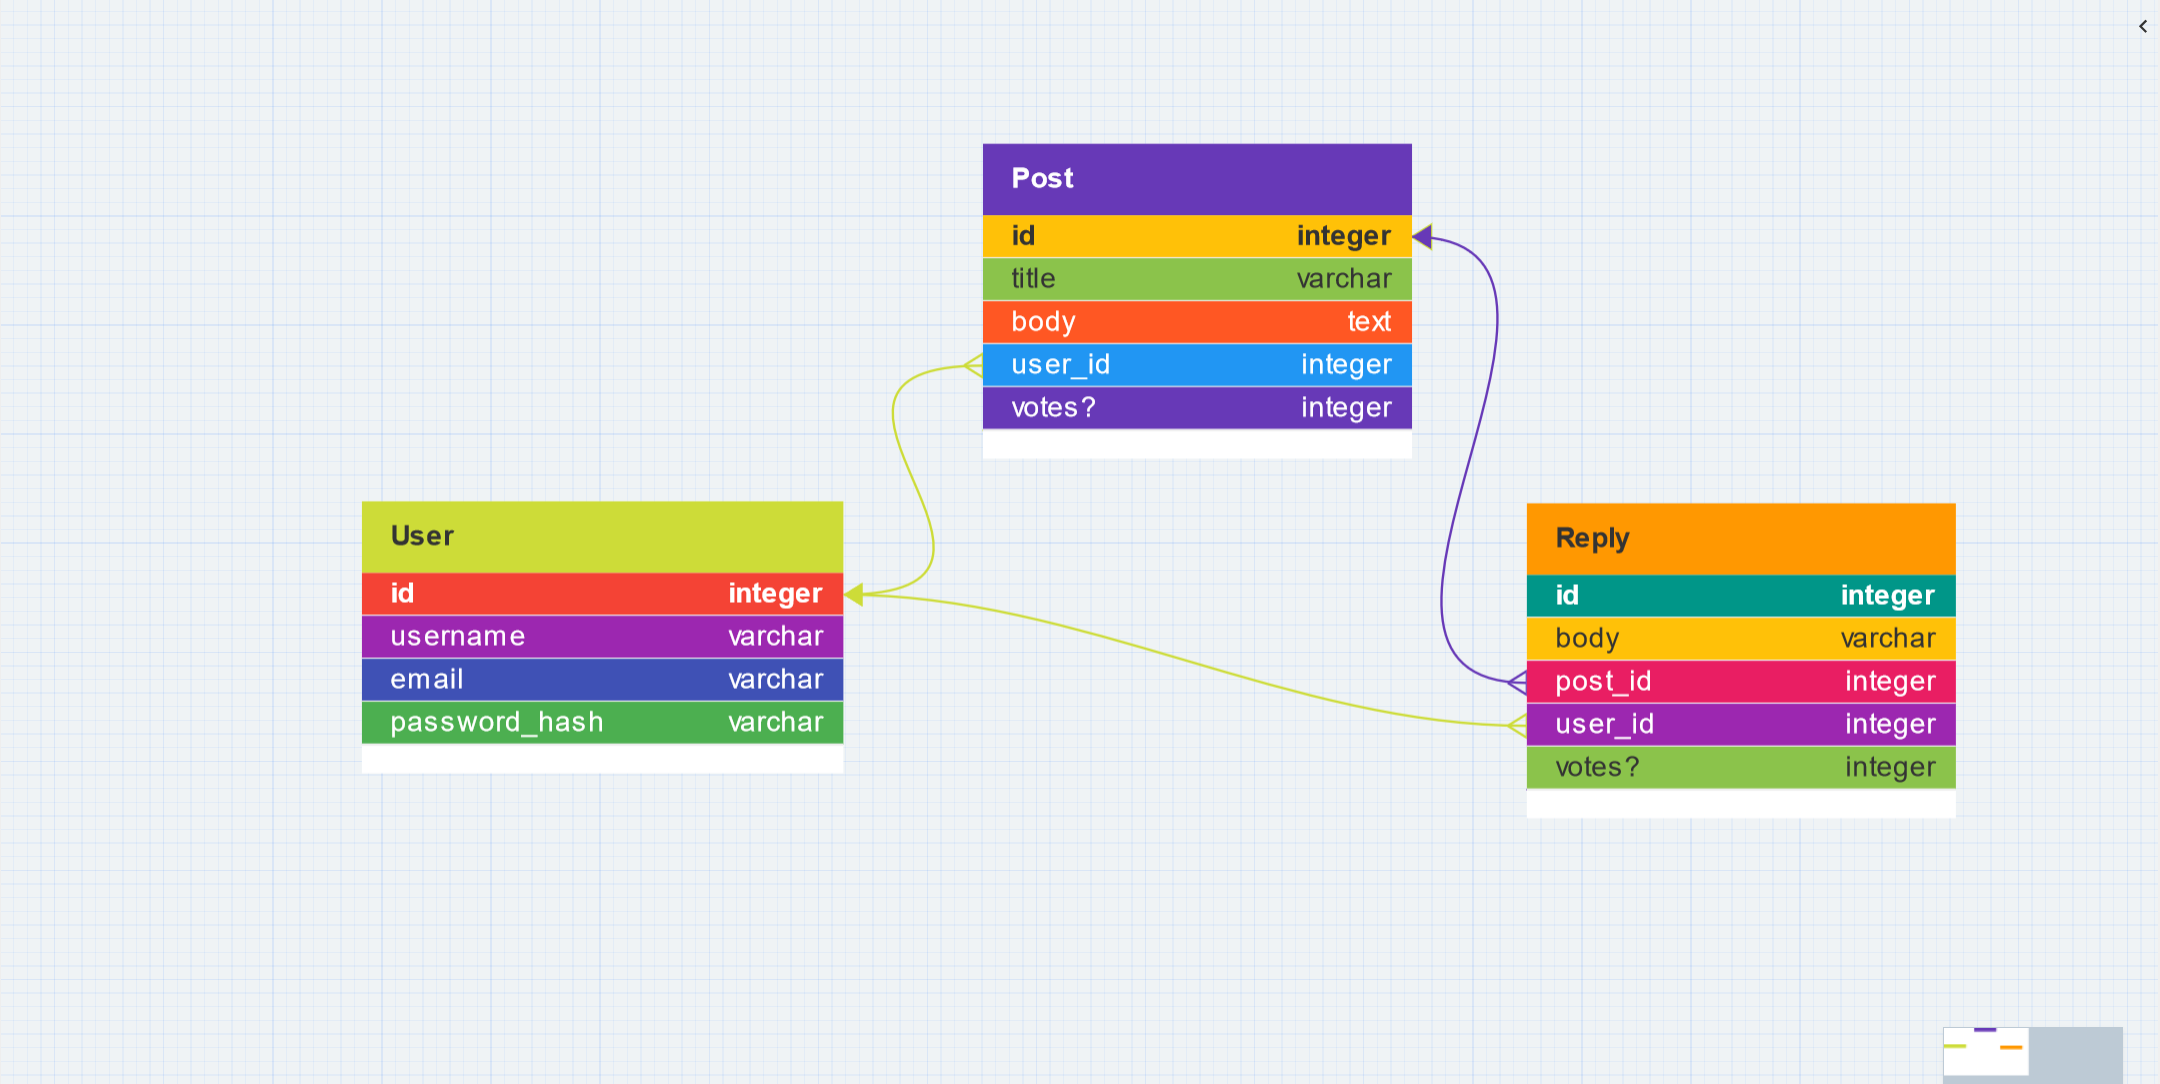
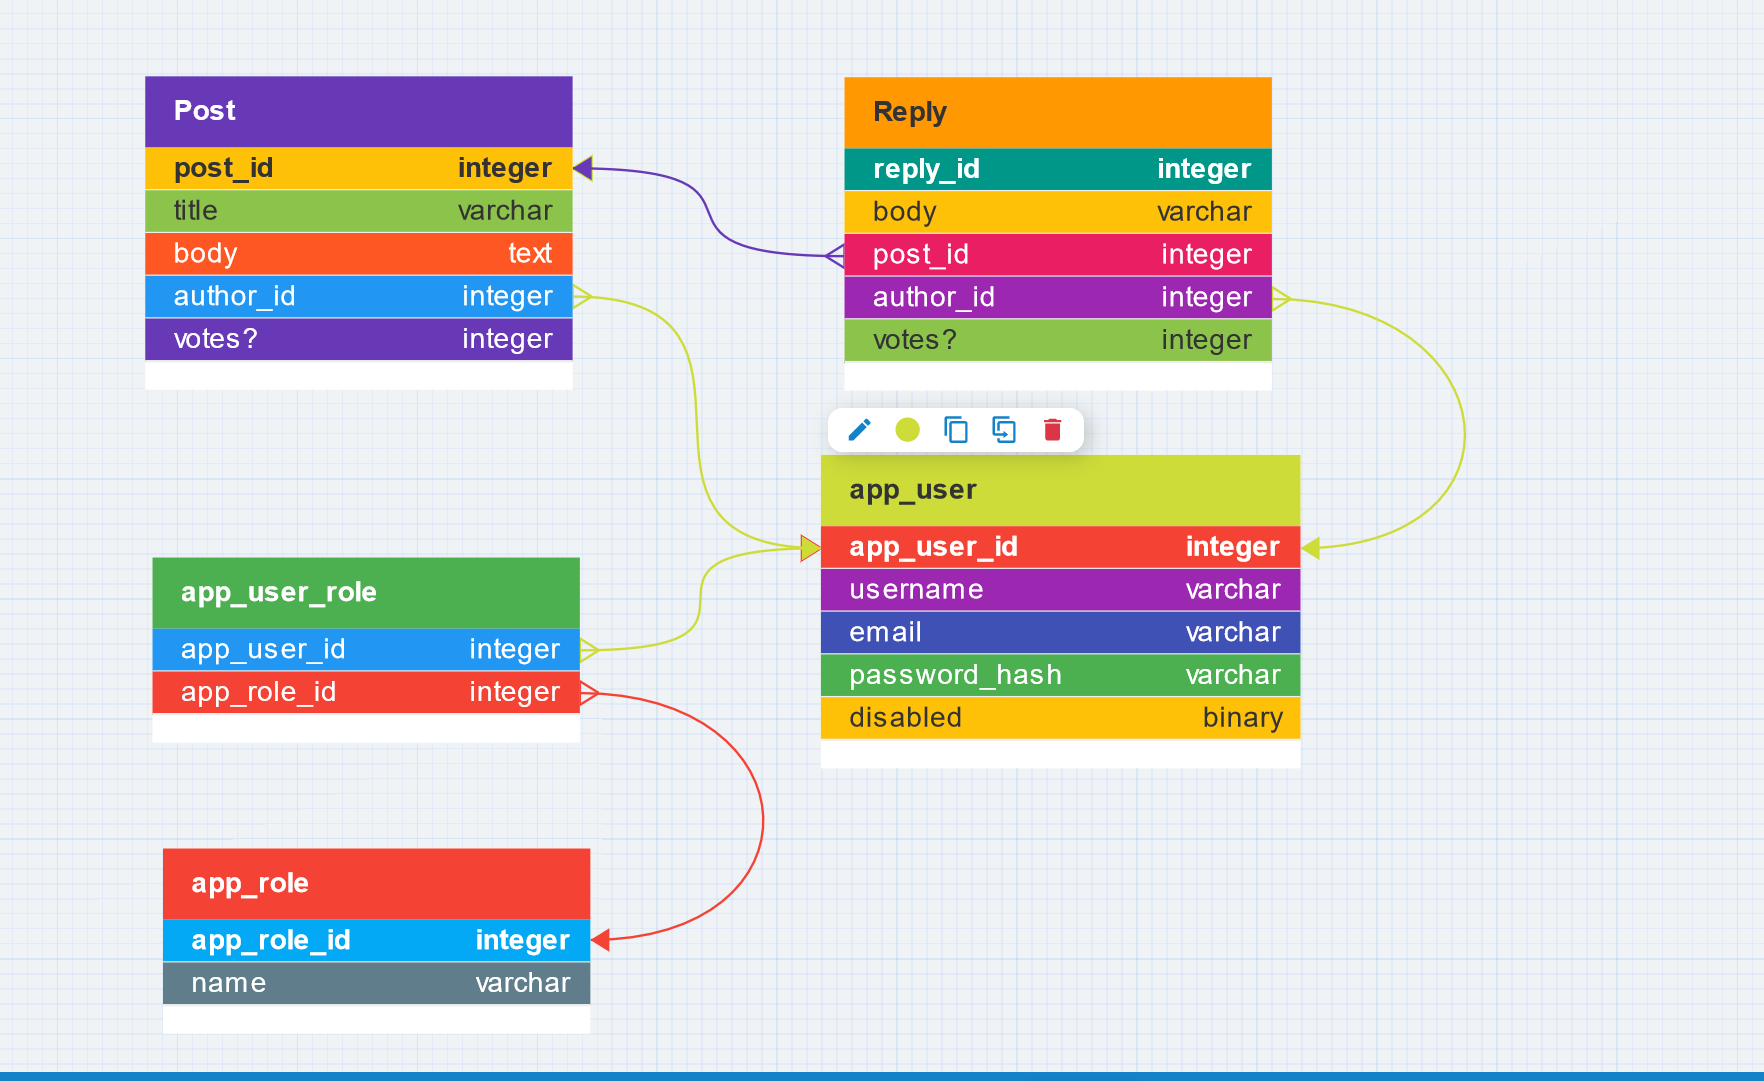
added two new tables to schema-diagram, reworked component-diagram

diff --git a/planning/frontend/component-diagram.html b/planning/frontend/component-diagram.html
@@ -1,0 +1,12 @@
+<!--[if IE]><meta http-equiv="X-UA-Compatible" content="IE=5,IE=9" ><![endif]-->
+<!DOCTYPE html>
+<html>
+<head>
+<title>Micro-Overflow.drawio.html</title>
+<meta charset="utf-8"/>
+</head>
+<body>
+<div class="mxgraph" style="max-width:100%;border:1px solid transparent;" data-mxgraph="{&quot;highlight&quot;:&quot;#0000ff&quot;,&quot;nav&quot;:true,&quot;resize&quot;:true,&quot;xml&quot;:&quot;&lt;mxfile host=\&quot;app.diagrams.net\&quot; modified=\&quot;2023-08-10T15:31:23.495Z\&quot; agent=\&quot;Mozilla/5.0 (Windows NT 10.0; Win64; x64; rv:109.0) Gecko/20100101 Firefox/116.0\&quot; etag=\&quot;tdofGplOQPMD5YdsrqYK\&quot; version=\&quot;21.6.8\&quot; type=\&quot;device\&quot;&gt;&lt;diagram name=\&quot;Page-1\&quot; id=\&quot;EvAYKShiM7-JEfwNViZ9\&quot;&gt;&lt;mxGraphModel dx=\&quot;1302\&quot; dy=\&quot;653\&quot; grid=\&quot;1\&quot; gridSize=\&quot;10\&quot; guides=\&quot;1\&quot; tooltips=\&quot;1\&quot; connect=\&quot;1\&quot; arrows=\&quot;1\&quot; fold=\&quot;1\&quot; page=\&quot;1\&quot; pageScale=\&quot;1\&quot; pageWidth=\&quot;850\&quot; pageHeight=\&quot;1100\&quot; math=\&quot;0\&quot; shadow=\&quot;0\&quot;&gt;&lt;root&gt;&lt;mxCell id=\&quot;0\&quot;/&gt;&lt;mxCell id=\&quot;1\&quot; parent=\&quot;0\&quot;/&gt;&lt;mxCell id=\&quot;05Vqzt7gNqmySBmQpRjv-1\&quot; value=\&quot;App.js\&quot; style=\&quot;rounded=1;whiteSpace=wrap;html=1;\&quot; vertex=\&quot;1\&quot; parent=\&quot;1\&quot;&gt;&lt;mxGeometry x=\&quot;400\&quot; width=\&quot;120\&quot; height=\&quot;60\&quot; as=\&quot;geometry\&quot;/&gt;&lt;/mxCell&gt;&lt;mxCell id=\&quot;05Vqzt7gNqmySBmQpRjv-2\&quot; value=\&quot;NavBar\&quot; style=\&quot;rounded=1;whiteSpace=wrap;html=1;\&quot; vertex=\&quot;1\&quot; parent=\&quot;1\&quot;&gt;&lt;mxGeometry x=\&quot;320\&quot; y=\&quot;90\&quot; width=\&quot;120\&quot; height=\&quot;60\&quot; as=\&quot;geometry\&quot;/&gt;&lt;/mxCell&gt;&lt;mxCell id=\&quot;05Vqzt7gNqmySBmQpRjv-3\&quot; value=\&quot;Login\&quot; style=\&quot;rounded=1;whiteSpace=wrap;html=1;\&quot; vertex=\&quot;1\&quot; parent=\&quot;1\&quot;&gt;&lt;mxGeometry x=\&quot;590\&quot; y=\&quot;90\&quot; width=\&quot;120\&quot; height=\&quot;60\&quot; as=\&quot;geometry\&quot;/&gt;&lt;/mxCell&gt;&lt;mxCell id=\&quot;05Vqzt7gNqmySBmQpRjv-4\&quot; value=\&quot;PostList\&quot; style=\&quot;rounded=1;whiteSpace=wrap;html=1;\&quot; vertex=\&quot;1\&quot; parent=\&quot;1\&quot;&gt;&lt;mxGeometry x=\&quot;180\&quot; y=\&quot;90\&quot; width=\&quot;120\&quot; height=\&quot;60\&quot; as=\&quot;geometry\&quot;/&gt;&lt;/mxCell&gt;&lt;mxCell id=\&quot;05Vqzt7gNqmySBmQpRjv-5\&quot; value=\&quot;Landing\&quot; style=\&quot;rounded=1;whiteSpace=wrap;html=1;\&quot; vertex=\&quot;1\&quot; parent=\&quot;1\&quot;&gt;&lt;mxGeometry x=\&quot;450\&quot; y=\&quot;90\&quot; width=\&quot;120\&quot; height=\&quot;60\&quot; as=\&quot;geometry\&quot;/&gt;&lt;/mxCell&gt;&lt;mxCell id=\&quot;05Vqzt7gNqmySBmQpRjv-6\&quot; value=\&quot;PostForm\&quot; style=\&quot;rounded=1;whiteSpace=wrap;html=1;\&quot; vertex=\&quot;1\&quot; parent=\&quot;1\&quot;&gt;&lt;mxGeometry x=\&quot;300\&quot; y=\&quot;180\&quot; width=\&quot;120\&quot; height=\&quot;60\&quot; as=\&quot;geometry\&quot;/&gt;&lt;/mxCell&gt;&lt;mxCell id=\&quot;05Vqzt7gNqmySBmQpRjv-7\&quot; value=\&quot;Post/ PostRow\&quot; style=\&quot;rounded=1;whiteSpace=wrap;html=1;\&quot; vertex=\&quot;1\&quot; parent=\&quot;1\&quot;&gt;&lt;mxGeometry x=\&quot;130\&quot; y=\&quot;270\&quot; width=\&quot;120\&quot; height=\&quot;60\&quot; as=\&quot;geometry\&quot;/&gt;&lt;/mxCell&gt;&lt;mxCell id=\&quot;05Vqzt7gNqmySBmQpRjv-8\&quot; value=\&quot;\&quot; style=\&quot;endArrow=classic;html=1;rounded=0;exitX=0.5;exitY=1;exitDx=0;exitDy=0;entryX=0.583;entryY=0;entryDx=0;entryDy=0;entryPerimeter=0;\&quot; edge=\&quot;1\&quot; parent=\&quot;1\&quot; source=\&quot;05Vqzt7gNqmySBmQpRjv-4\&quot; target=\&quot;05Vqzt7gNqmySBmQpRjv-15\&quot;&gt;&lt;mxGeometry width=\&quot;50\&quot; height=\&quot;50\&quot; relative=\&quot;1\&quot; as=\&quot;geometry\&quot;&gt;&lt;mxPoint x=\&quot;150\&quot; y=\&quot;270\&quot; as=\&quot;sourcePoint\&quot;/&gt;&lt;mxPoint x=\&quot;200\&quot; y=\&quot;310\&quot; as=\&quot;targetPoint\&quot;/&gt;&lt;/mxGeometry&gt;&lt;/mxCell&gt;&lt;mxCell id=\&quot;05Vqzt7gNqmySBmQpRjv-9\&quot; value=\&quot;\&quot; style=\&quot;endArrow=classic;html=1;rounded=0;exitX=0.594;exitY=1.006;exitDx=0;exitDy=0;exitPerimeter=0;entryX=0.5;entryY=0;entryDx=0;entryDy=0;\&quot; edge=\&quot;1\&quot; parent=\&quot;1\&quot; source=\&quot;05Vqzt7gNqmySBmQpRjv-4\&quot; target=\&quot;05Vqzt7gNqmySBmQpRjv-6\&quot;&gt;&lt;mxGeometry width=\&quot;50\&quot; height=\&quot;50\&quot; relative=\&quot;1\&quot; as=\&quot;geometry\&quot;&gt;&lt;mxPoint x=\&quot;160\&quot; y=\&quot;260\&quot; as=\&quot;sourcePoint\&quot;/&gt;&lt;mxPoint x=\&quot;240\&quot; y=\&quot;330\&quot; as=\&quot;targetPoint\&quot;/&gt;&lt;/mxGeometry&gt;&lt;/mxCell&gt;&lt;mxCell id=\&quot;05Vqzt7gNqmySBmQpRjv-10\&quot; value=\&quot;ReplyForm\&quot; style=\&quot;rounded=1;whiteSpace=wrap;html=1;\&quot; vertex=\&quot;1\&quot; parent=\&quot;1\&quot;&gt;&lt;mxGeometry x=\&quot;260\&quot; y=\&quot;350\&quot; width=\&quot;120\&quot; height=\&quot;60\&quot; as=\&quot;geometry\&quot;/&gt;&lt;/mxCell&gt;&lt;mxCell id=\&quot;05Vqzt7gNqmySBmQpRjv-12\&quot; value=\&quot;ReplyList\&quot; style=\&quot;rounded=1;whiteSpace=wrap;html=1;\&quot; vertex=\&quot;1\&quot; parent=\&quot;1\&quot;&gt;&lt;mxGeometry x=\&quot;120\&quot; y=\&quot;350\&quot; width=\&quot;120\&quot; height=\&quot;60\&quot; as=\&quot;geometry\&quot;/&gt;&lt;/mxCell&gt;&lt;mxCell id=\&quot;05Vqzt7gNqmySBmQpRjv-15\&quot; value=\&quot;&amp;lt;div&amp;gt;PostTable&amp;lt;/div&amp;gt;\&quot; style=\&quot;rounded=1;whiteSpace=wrap;html=1;\&quot; vertex=\&quot;1\&quot; parent=\&quot;1\&quot;&gt;&lt;mxGeometry x=\&quot;160\&quot; y=\&quot;180\&quot; width=\&quot;120\&quot; height=\&quot;60\&quot; as=\&quot;geometry\&quot;/&gt;&lt;/mxCell&gt;&lt;mxCell id=\&quot;05Vqzt7gNqmySBmQpRjv-16\&quot; value=\&quot;\&quot; style=\&quot;endArrow=classic;html=1;rounded=0;entryX=0.583;entryY=0;entryDx=0;entryDy=0;entryPerimeter=0;\&quot; edge=\&quot;1\&quot; parent=\&quot;1\&quot; target=\&quot;05Vqzt7gNqmySBmQpRjv-7\&quot;&gt;&lt;mxGeometry width=\&quot;50\&quot; height=\&quot;50\&quot; relative=\&quot;1\&quot; as=\&quot;geometry\&quot;&gt;&lt;mxPoint x=\&quot;210\&quot; y=\&quot;240\&quot; as=\&quot;sourcePoint\&quot;/&gt;&lt;mxPoint x=\&quot;200\&quot; y=\&quot;290\&quot; as=\&quot;targetPoint\&quot;/&gt;&lt;/mxGeometry&gt;&lt;/mxCell&gt;&lt;mxCell id=\&quot;05Vqzt7gNqmySBmQpRjv-17\&quot; value=\&quot;\&quot; style=\&quot;endArrow=classic;html=1;rounded=0;\&quot; edge=\&quot;1\&quot; parent=\&quot;1\&quot; target=\&quot;05Vqzt7gNqmySBmQpRjv-10\&quot;&gt;&lt;mxGeometry width=\&quot;50\&quot; height=\&quot;50\&quot; relative=\&quot;1\&quot; as=\&quot;geometry\&quot;&gt;&lt;mxPoint x=\&quot;220\&quot; y=\&quot;330\&quot; as=\&quot;sourcePoint\&quot;/&gt;&lt;mxPoint x=\&quot;260\&quot; y=\&quot;370\&quot; as=\&quot;targetPoint\&quot;/&gt;&lt;/mxGeometry&gt;&lt;/mxCell&gt;&lt;mxCell id=\&quot;05Vqzt7gNqmySBmQpRjv-18\&quot; value=\&quot;\&quot; style=\&quot;endArrow=classic;html=1;rounded=0;\&quot; edge=\&quot;1\&quot; parent=\&quot;1\&quot; target=\&quot;05Vqzt7gNqmySBmQpRjv-12\&quot;&gt;&lt;mxGeometry width=\&quot;50\&quot; height=\&quot;50\&quot; relative=\&quot;1\&quot; as=\&quot;geometry\&quot;&gt;&lt;mxPoint x=\&quot;169.58000000000004\&quot; y=\&quot;330\&quot; as=\&quot;sourcePoint\&quot;/&gt;&lt;mxPoint x=\&quot;170\&quot; y=\&quot;360\&quot; as=\&quot;targetPoint\&quot;/&gt;&lt;/mxGeometry&gt;&lt;/mxCell&gt;&lt;mxCell id=\&quot;05Vqzt7gNqmySBmQpRjv-19\&quot; value=\&quot;ReplyTable\&quot; style=\&quot;rounded=1;whiteSpace=wrap;html=1;\&quot; vertex=\&quot;1\&quot; parent=\&quot;1\&quot;&gt;&lt;mxGeometry x=\&quot;120\&quot; y=\&quot;430\&quot; width=\&quot;120\&quot; height=\&quot;60\&quot; as=\&quot;geometry\&quot;/&gt;&lt;/mxCell&gt;&lt;mxCell id=\&quot;05Vqzt7gNqmySBmQpRjv-20\&quot; value=\&quot;Reply/ ReplyRow\&quot; style=\&quot;rounded=1;whiteSpace=wrap;html=1;\&quot; vertex=\&quot;1\&quot; parent=\&quot;1\&quot;&gt;&lt;mxGeometry x=\&quot;120\&quot; y=\&quot;520\&quot; width=\&quot;120\&quot; height=\&quot;60\&quot; as=\&quot;geometry\&quot;/&gt;&lt;/mxCell&gt;&lt;mxCell id=\&quot;05Vqzt7gNqmySBmQpRjv-21\&quot; value=\&quot;\&quot; style=\&quot;endArrow=classic;html=1;rounded=0;\&quot; edge=\&quot;1\&quot; parent=\&quot;1\&quot; target=\&quot;05Vqzt7gNqmySBmQpRjv-19\&quot;&gt;&lt;mxGeometry width=\&quot;50\&quot; height=\&quot;50\&quot; relative=\&quot;1\&quot; as=\&quot;geometry\&quot;&gt;&lt;mxPoint x=\&quot;179.58000000000004\&quot; y=\&quot;400\&quot; as=\&quot;sourcePoint\&quot;/&gt;&lt;mxPoint x=\&quot;180\&quot; y=\&quot;440\&quot; as=\&quot;targetPoint\&quot;/&gt;&lt;/mxGeometry&gt;&lt;/mxCell&gt;&lt;mxCell id=\&quot;05Vqzt7gNqmySBmQpRjv-22\&quot; value=\&quot;\&quot; style=\&quot;endArrow=classic;html=1;rounded=0;\&quot; edge=\&quot;1\&quot; parent=\&quot;1\&quot; target=\&quot;05Vqzt7gNqmySBmQpRjv-20\&quot;&gt;&lt;mxGeometry width=\&quot;50\&quot; height=\&quot;50\&quot; relative=\&quot;1\&quot; as=\&quot;geometry\&quot;&gt;&lt;mxPoint x=\&quot;179.58000000000004\&quot; y=\&quot;480\&quot; as=\&quot;sourcePoint\&quot;/&gt;&lt;mxPoint x=\&quot;179.58000000000004\&quot; y=\&quot;530\&quot; as=\&quot;targetPoint\&quot;/&gt;&lt;/mxGeometry&gt;&lt;/mxCell&gt;&lt;mxCell id=\&quot;05Vqzt7gNqmySBmQpRjv-23\&quot; value=\&quot;\&quot; style=\&quot;endArrow=classic;html=1;rounded=0;entryX=0.838;entryY=-0.008;entryDx=0;entryDy=0;entryPerimeter=0;\&quot; edge=\&quot;1\&quot; parent=\&quot;1\&quot; source=\&quot;05Vqzt7gNqmySBmQpRjv-1\&quot; target=\&quot;05Vqzt7gNqmySBmQpRjv-4\&quot;&gt;&lt;mxGeometry width=\&quot;50\&quot; height=\&quot;50\&quot; relative=\&quot;1\&quot; as=\&quot;geometry\&quot;&gt;&lt;mxPoint x=\&quot;390\&quot; y=\&quot;70\&quot; as=\&quot;sourcePoint\&quot;/&gt;&lt;mxPoint x=\&quot;380\&quot; y=\&quot;120\&quot; as=\&quot;targetPoint\&quot;/&gt;&lt;/mxGeometry&gt;&lt;/mxCell&gt;&lt;mxCell id=\&quot;05Vqzt7gNqmySBmQpRjv-24\&quot; value=\&quot;\&quot; style=\&quot;edgeStyle=none;orthogonalLoop=1;jettySize=auto;html=1;rounded=0;\&quot; edge=\&quot;1\&quot; parent=\&quot;1\&quot; source=\&quot;05Vqzt7gNqmySBmQpRjv-1\&quot; target=\&quot;05Vqzt7gNqmySBmQpRjv-2\&quot;&gt;&lt;mxGeometry width=\&quot;100\&quot; relative=\&quot;1\&quot; as=\&quot;geometry\&quot;&gt;&lt;mxPoint x=\&quot;405\&quot; y=\&quot;70\&quot; as=\&quot;sourcePoint\&quot;/&gt;&lt;mxPoint x=\&quot;445\&quot; y=\&quot;110\&quot; as=\&quot;targetPoint\&quot;/&gt;&lt;Array as=\&quot;points\&quot;/&gt;&lt;/mxGeometry&gt;&lt;/mxCell&gt;&lt;mxCell id=\&quot;05Vqzt7gNqmySBmQpRjv-25\&quot; value=\&quot;\&quot; style=\&quot;edgeStyle=none;orthogonalLoop=1;jettySize=auto;html=1;rounded=0;entryX=0.15;entryY=0.033;entryDx=0;entryDy=0;entryPerimeter=0;exitX=0.5;exitY=1;exitDx=0;exitDy=0;\&quot; edge=\&quot;1\&quot; parent=\&quot;1\&quot; source=\&quot;05Vqzt7gNqmySBmQpRjv-1\&quot; target=\&quot;05Vqzt7gNqmySBmQpRjv-5\&quot;&gt;&lt;mxGeometry width=\&quot;100\&quot; relative=\&quot;1\&quot; as=\&quot;geometry\&quot;&gt;&lt;mxPoint x=\&quot;450\&quot; y=\&quot;70\&quot; as=\&quot;sourcePoint\&quot;/&gt;&lt;mxPoint x=\&quot;460\&quot; y=\&quot;110\&quot; as=\&quot;targetPoint\&quot;/&gt;&lt;Array as=\&quot;points\&quot;/&gt;&lt;/mxGeometry&gt;&lt;/mxCell&gt;&lt;mxCell id=\&quot;05Vqzt7gNqmySBmQpRjv-26\&quot; value=\&quot;\&quot; style=\&quot;edgeStyle=none;orthogonalLoop=1;jettySize=auto;html=1;rounded=0;\&quot; edge=\&quot;1\&quot; parent=\&quot;1\&quot; source=\&quot;05Vqzt7gNqmySBmQpRjv-1\&quot; target=\&quot;05Vqzt7gNqmySBmQpRjv-3\&quot;&gt;&lt;mxGeometry width=\&quot;100\&quot; relative=\&quot;1\&quot; as=\&quot;geometry\&quot;&gt;&lt;mxPoint x=\&quot;490\&quot; y=\&quot;60\&quot; as=\&quot;sourcePoint\&quot;/&gt;&lt;mxPoint x=\&quot;590\&quot; y=\&quot;60\&quot; as=\&quot;targetPoint\&quot;/&gt;&lt;Array as=\&quot;points\&quot;/&gt;&lt;/mxGeometry&gt;&lt;/mxCell&gt;&lt;/root&gt;&lt;/mxGraphModel&gt;&lt;/diagram&gt;&lt;/mxfile&gt;&quot;,&quot;toolbar&quot;:&quot;pages zoom layers lightbox&quot;,&quot;page&quot;:0}"></div>
+<script type="text/javascript" src="https://app.diagrams.net/js/viewer-static.min.js"></script>
+</body>
+</html>
